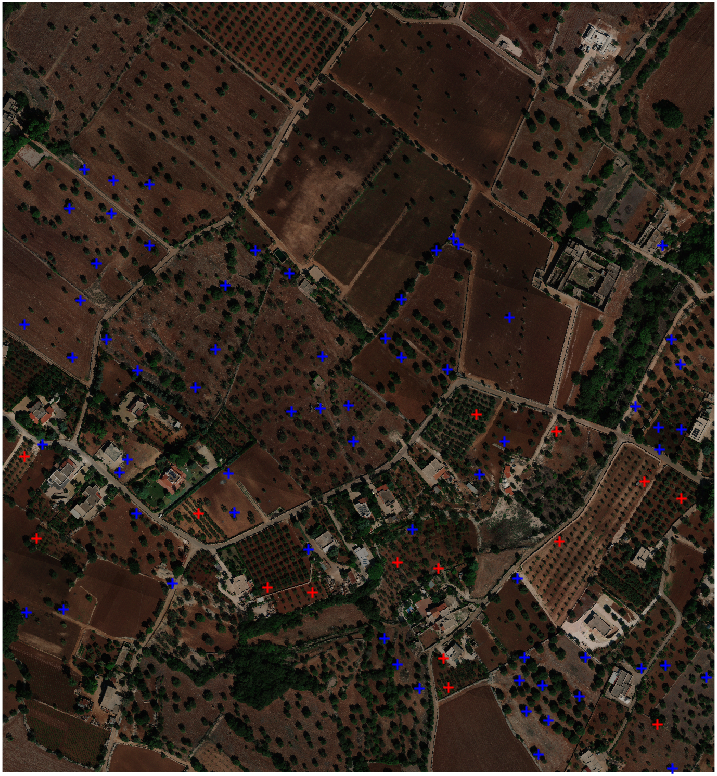
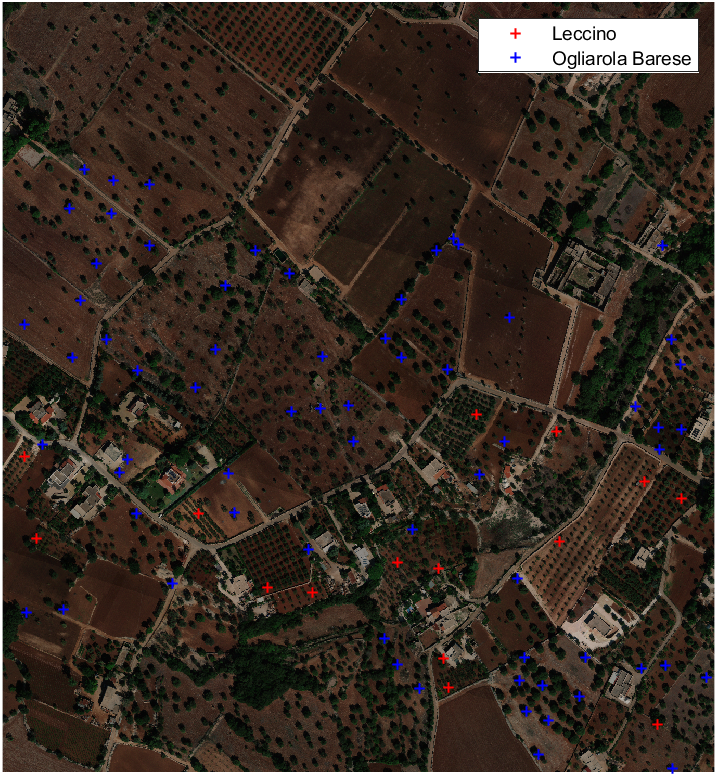
adjustments for plotting

Changed region(s): [[0.6444, 0.0, 0.9819, 0.0928]]

diff --git a/tree_distinguish/tree_position/extractSpectralFirmsFromXlsx.m b/tree_distinguish/tree_position/extractSpectralFirmsFromXlsx.m
@@ -27,6 +27,7 @@ for i=(1:size(coordinates,1))
     convxy(i,4:50)=spectralFirms(i,:);
     convxy(i,3)= labels(i)=="Ogliarola barese";
 end
+%%
 % ...
 figure
 load('wavelengths.mat')
@@ -38,8 +39,10 @@ axis off;
 %....
 for i=(1:size(coordinates,1))
     if(convxy(i,3)==0) %LECCINO
-        plot(convxy(i,1),convxy(i,2),'r+','MarkerSize',5,'LineWidth',1,'DisplayName','Leccino')
+        h(1)=plot(convxy(i,1),convxy(i,2),'r+','MarkerSize',5,'LineWidth',1,'DisplayName','Leccino');
     else % Ogliarola barese
-        plot(convxy(i,1),convxy(i,2),'b+','MarkerSize',5,'LineWidth',1,'DisplayName','Ogliarola')
+        h(2)=plot(convxy(i,1),convxy(i,2),'b+','MarkerSize',5,'LineWidth',1,'DisplayName','Ogliarola');
     end
 end
+
+legend(h,'Leccino','Ogliarola Barese')

diff --git a/tree_distinguish/distinguish_match_signatures/supervised_SAMmatching.m b/tree_distinguish/distinguish_match_signatures/supervised_SAMmatching.m
@@ -30,6 +30,7 @@ meanOglia=mean(signOglia,1);
 meanLecc=mean(signLecc,1);
 numEndmembers=2;
 suggestedEndmembers=countEndmembersHFC(signatures) %suggested number of 
+%%
 % different spectral signatures that could optimally be extracted from the
 % whole trees dataset
 endmembers = nfindr(signatures,numEndmembers);
